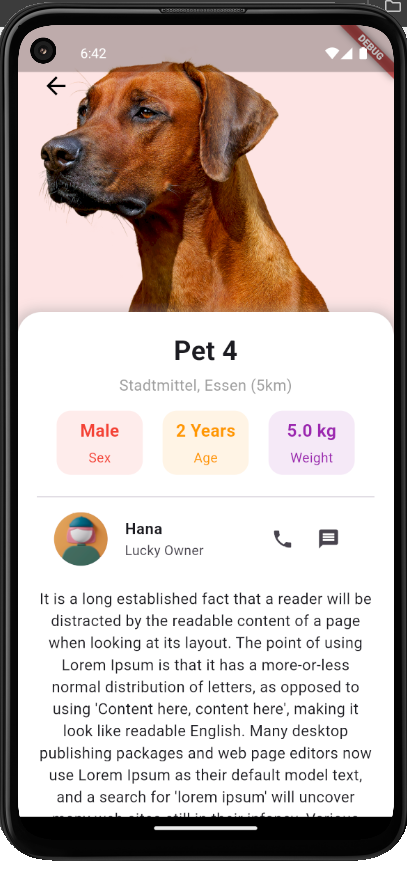
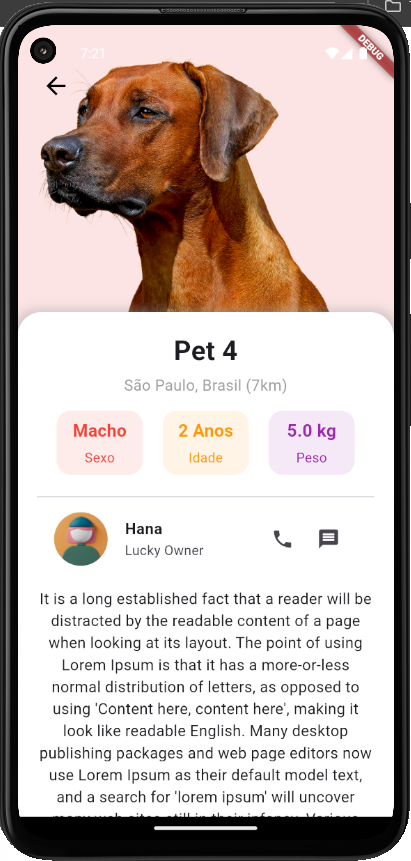
new images

diff --git a/lib/screens/welcome_screen.dart b/lib/screens/welcome_screen.dart
@@ -8,15 +8,13 @@ class WelcomeScreen extends StatelessWidget {
     return Scaffold(
       body: Center(
         child: Column(
-          mainAxisAlignment: MainAxisAlignment.center,
           children: [
             Image.asset(
               'assets/img/welcome.png',
               width: 700,
+              fit: BoxFit.cover, // Ajusta a imagem para preencher o espaço
             ),
-            const SizedBox(
-              height: 30,
-            ),
+            const SizedBox(height: 70),
             const SizedBox(
               width: 400,
               child: Text(
@@ -29,9 +27,6 @@ class WelcomeScreen extends StatelessWidget {
               ),
             ),
             const SizedBox(
-              height: 10,
-            ),
-            const SizedBox(
               width: 300,
               child: Text(
                 'Junte-se a nós e descubra o melhor pet próximo de você',
@@ -42,15 +37,13 @@ class WelcomeScreen extends StatelessWidget {
             ElevatedButton(
               style: ElevatedButton.styleFrom(
                 foregroundColor: const Color(0xFFFFFFFF),
-                backgroundColor:
-                    const Color(0xFFFF6D6D), // Cor do texto no botão
+                backgroundColor: Colors.redAccent,
                 padding:
                     const EdgeInsets.symmetric(horizontal: 50, vertical: 15),
                 shape: RoundedRectangleBorder(
-                  borderRadius:
-                      BorderRadius.circular(30), // Bordas arredondadas
+                  borderRadius: BorderRadius.circular(30),
                 ),
-                elevation: 5, // Sombra do botão
+                elevation: 5,
               ),
               onPressed: () {
                 Navigator.pushNamed(context, '/home');

diff --git a/lib/screens/pet_details_screen.dart b/lib/screens/pet_details_screen.dart
@@ -128,7 +128,7 @@ class _PetDetailsScreenState extends State<PetDetailsScreen> {
                       const SizedBox(height: 5),
                       const Center(
                         child: Text(
-                          "Stadtmittel, Essen (5km)",
+                          "São Paulo, Brasil (7km)",
                           style: TextStyle(
                             fontSize: 16,
                             color: Colors.grey,
@@ -139,12 +139,12 @@ class _PetDetailsScreenState extends State<PetDetailsScreen> {
                       Row(
                         mainAxisAlignment: MainAxisAlignment.spaceEvenly,
                         children: [
-                          _buildInfoBox("Male", "Sex", Colors.red),
+                          _buildInfoBox("Macho", "Sexo", Colors.red),
                           _buildInfoBox(
-                              "${widget.age} Years", "Age", Colors.orange),
+                              "${widget.age} Anos", "Idade", Colors.orange),
                           _buildInfoBox(
                               "${widget.weight.toStringAsFixed(1)} kg",
-                              "Weight",
+                              "Peso",
                               Colors.purple),
                         ],
                       ),

diff --git a/lib/widgets/banner_widget.dart b/lib/widgets/banner_widget.dart
@@ -13,7 +13,7 @@ class BannerWidget extends StatelessWidget {
           Container(
             height: 150,
             decoration: BoxDecoration(
-              color: const Color.fromARGB(255, 255, 117, 120),
+              color: Colors.redAccent,
               borderRadius: BorderRadius.circular(15),
             ),
           ),
@@ -76,7 +76,7 @@ class BannerWidget extends StatelessWidget {
               crossAxisAlignment: CrossAxisAlignment.start,
               children: [
                 const Text(
-                  'Join Our Animal Lovers Community',
+                  'Comunidade Amantes de Pets',
                   style: TextStyle(
                     color: Colors.white,
                     fontSize: 16,
@@ -93,7 +93,7 @@ class BannerWidget extends StatelessWidget {
                       borderRadius: BorderRadius.circular(20),
                     ),
                   ),
-                  child: const Text('Continue'),
+                  child: const Text('Fazer parte'),
                 ),
               ],
             ),

diff --git a/lib/widgets/category_chips.dart b/lib/widgets/category_chips.dart
@@ -10,9 +10,24 @@ class CategoryChips extends StatelessWidget {
       child: Row(
         mainAxisAlignment: MainAxisAlignment.spaceAround,
         children: [
-          Chip(label: Text('Gatos')),
-          Chip(label: Text('Cachorros')),
-          Chip(label: Text('Pássaros')),
+          Chip(
+            label: Text(
+              'Gatos',
+              style: TextStyle(color: Colors.black),
+            ),
+          ),
+          Chip(
+            label: Text(
+              'Cachorros',
+              style: TextStyle(color: Colors.black),
+            ),
+          ),
+          Chip(
+            label: Text(
+              'Pássaros',
+              style: TextStyle(color: Colors.black),
+            ),
+          ),
         ],
       ),
     );

diff --git a/lib/screens/home_screen.dart b/lib/screens/home_screen.dart
@@ -163,7 +163,7 @@ class _HomeScreenState extends State<HomeScreen> {
                       child: const Text(
                         'Ver todos',
                         style: TextStyle(
-                          color: Colors.redAccent,
+                          color: Color.fromARGB(255, 252, 59, 59),
                           fontSize: 16,
                         ),
                       ),
@@ -223,7 +223,7 @@ class _HomeScreenState extends State<HomeScreen> {
           BottomNavigationBarItem(
             icon: FaIcon(
               FontAwesomeIcons.gears,
-              color: Colors.black,
+              color: Color(0xFF272626),
             ), // Ícone de configurações
             label: '',
           ),

diff --git a/README.md b/README.md
@@ -34,11 +34,12 @@
 UI Pet Shop do serviço de adoção - Esse Projeto foi desenvolvido durante a um semestre no SENAI - "Ricardo Lerner" com o Professor Samuel Luis dos Santos | Bruce.
 
 ### ✅ Demonstração
+
 <img src="assets\img\mostruario-petadopt\tela1-welcome.png" />
 <img src="assets\img\mostruario-petadopt\tela2-home.png" />
 <img src="assets\img\mostruario-petadopt\tela3-details.png" />
 <img src="assets\img\mostruario-petadopt\tela4-description.png" />
-
+<img src="assets\img\mostruario-petadopt\tela5-favs.png" />
 
 ### 🚀 Tecnologias
 
